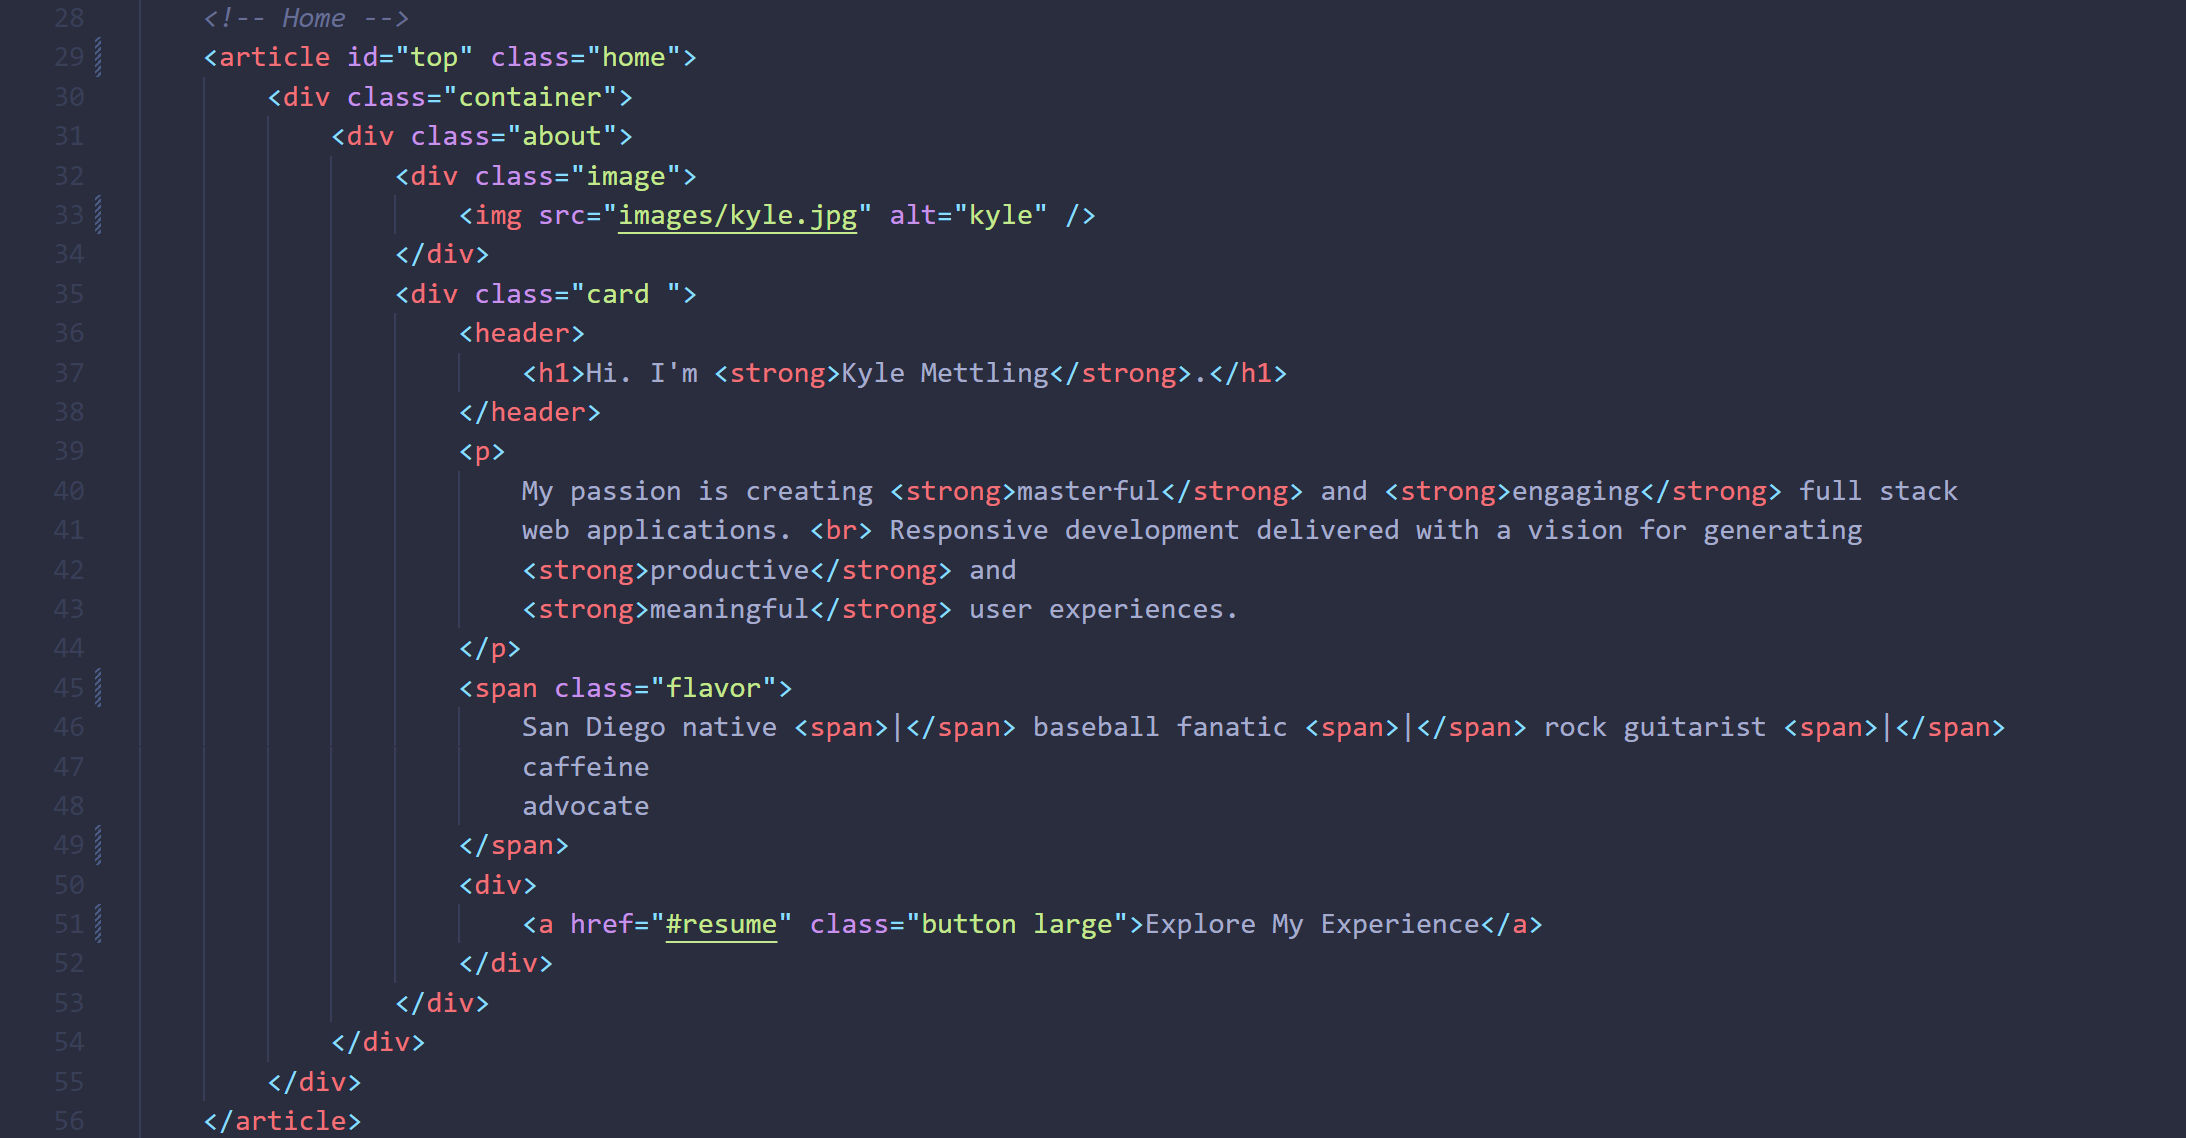
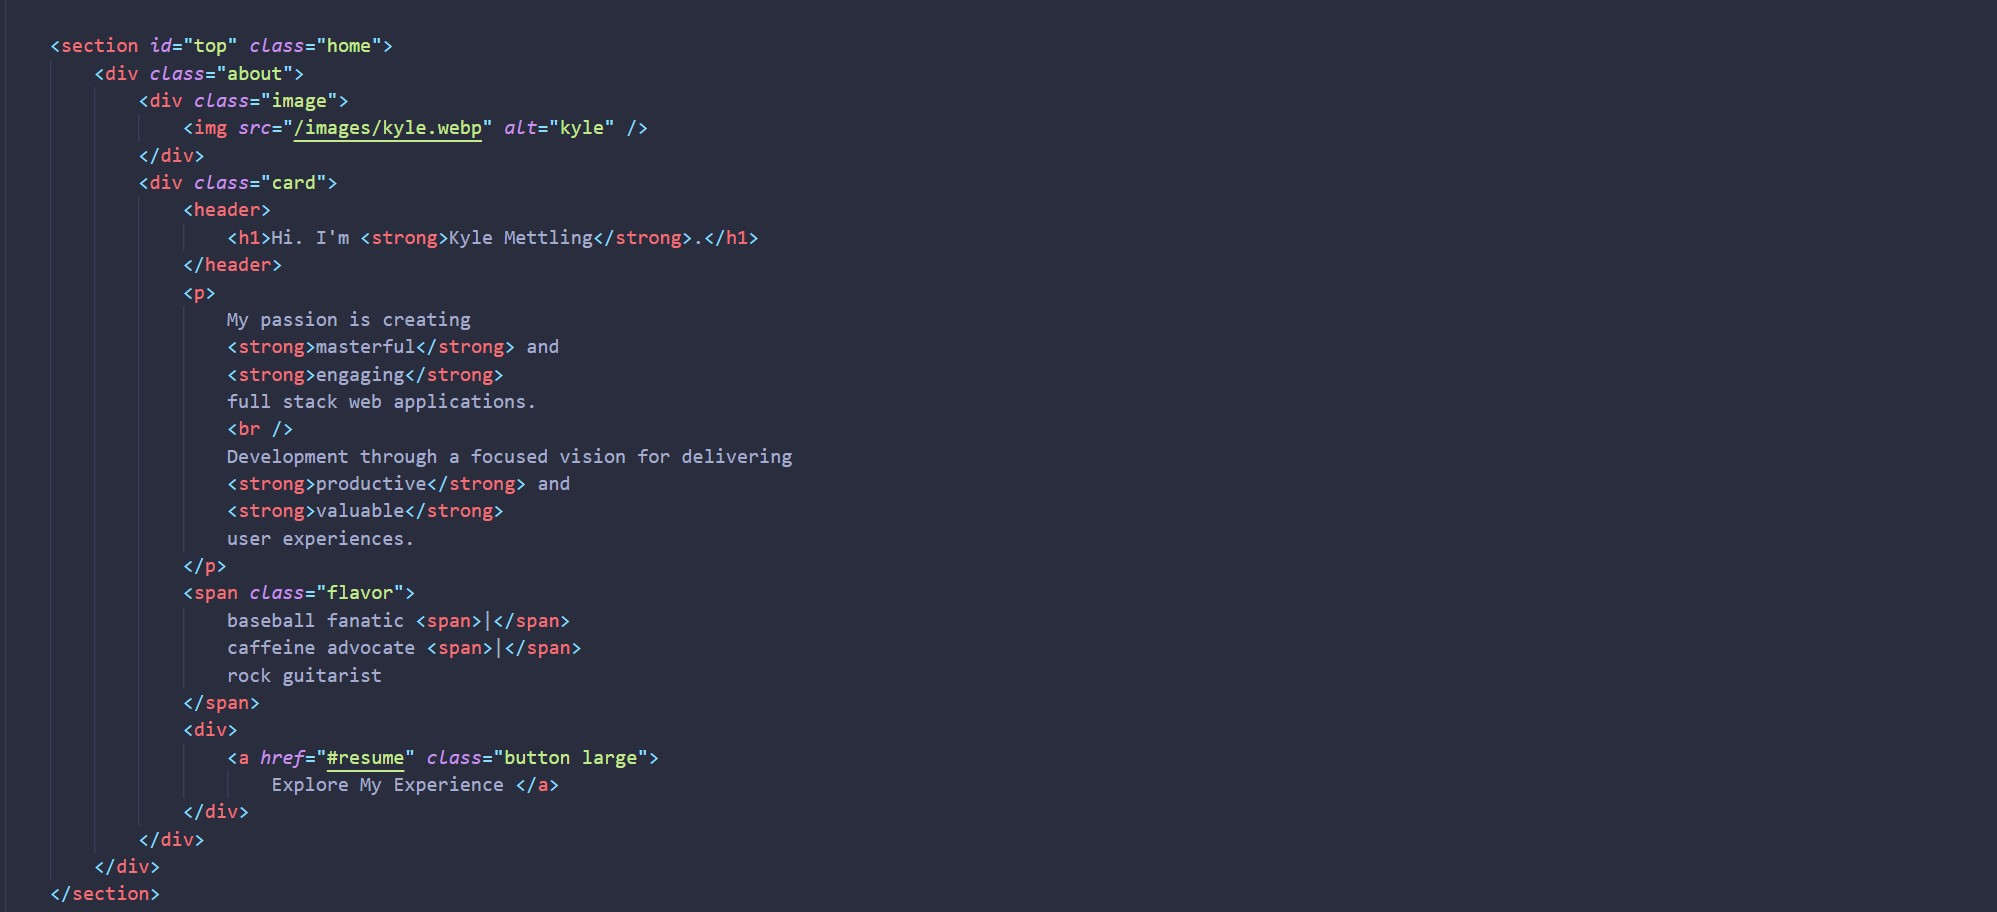
more responsive edits

diff --git a/assets/css/main.css b/assets/css/main.css
@@ -520,14 +520,10 @@ ul {
 	font-size: 20px;
 	padding: 5px;
 }
-#portfolio h2 {
-	margin-top: 100px;
-}
 #portfolio.wrapper {
 	margin: 0;
-	margin-top: 25px;
+	/* padding: 0; */
 	padding: 0;
-	padding-top: 125px;
 	/* padding-top: 20px; */
 	border-top: 5px solid var(--hoverAccentBorderColor);
 	border-bottom: 5px solid var(--hoverAccentBorderColor);
@@ -551,10 +547,10 @@ ul {
 	/* width: 100vw; */
 	/* margin: 0 auto; */
 	/* margin: 0 200px 0 200px; */
-	margin: 0 25px;
+	margin: 125px;
 	/* width: 1999px; */
-	padding: 0 444px;
-	padding-bottom: 125px;
+	padding: 125px 50px;
+	/* padding-bottom: 125px; */
 	/* margin-left: 400px; */
 	/* margin-right: 400px; */
 }
@@ -583,7 +579,7 @@ ul {
 	/* margin: 0 auto; */
 }
 .project:first-of-type img {
-	width: 1000px;
+	width: 888px;
 	/* display: flex; */
 	/* width: 1500px; */
 	/* height: 100%; */
@@ -598,6 +594,7 @@ ul {
 .project img {
 	/* display: flex; */
 }
+
 .project .box .details {
 	display: flex;
 	flex-direction: column;
@@ -613,11 +610,9 @@ ul {
 }
 .project:first-of-type .box .details p {
 	width: initial;
-	/* margin: 0 auto; */
-	/* justify-content: center; */
 	align-self: center;
-	/* justify-self: center; */
-	/* text-align: center; */
+}
+.project:first-of-type {
 }
 
 .project .box p {
@@ -645,7 +640,7 @@ article.box:hover {
 	justify-content: flex-start;
 	color: var(--white);
 	font-size: 1.25rem;
-	margin: 0 25px;
+	margin: 0 125px;
 	background-color: var(--purple2);
 	padding: 45px 25px;
 }
@@ -712,16 +707,16 @@ article.box:hover {
 } */
 .home {
 	background-color: var(--black);
-	background-image: url('/images/home2.webp');
+	background-image: url('/images/home.webp');
 	background-blend-mode: hard-light;
 	background-size: cover;
 	background-repeat: no-repeat;
-	background-position: 0% 55%;
 	border-bottom: 5px solid var(--hoverAccentBorderColor);
-	/* position: relative; */
-	/* width: 2560px; */
-	/* margin: 0 auto; */
-	/* height: 1050px; */
+	display: flex;
+	justify-content: center;
+	padding-top: 20px;
+	/* margin-left: 35.25%; */
+	height: 1280px;
 }
 .card {
 	display: flex;
@@ -778,23 +773,18 @@ article.box:hover {
 	/* gap: 50px; */
 	align-items: center;
 	justify-content: space-evenly;
+	margin-left: 35%;
 	/* width: 100%; */
 	/* height: 1200px; */
 	/* margin-bottom: -150px; */
 }
-.home .container {
+/* .home .container {
 	display: flex;
-	justify-content: center;
-	/* align-content: center; */
-	/* gap: 200px; */
-	/* height: 100%; */
+	justify-content: center; 
 	padding-top: 20px;
-	margin-left: 35.25%;
-	/* align-items: flex-end; */
-	/* width: 400px; */
-	/* margin: 0 auto; */
+	margin-left: 35.25%; 
 	height: 1050px;
-}
+} */
 
 .about .card {
 	/* display: flex; */
@@ -2604,14 +2594,11 @@ ul.actions li:first-child {
 .projects {
 	display: flex;
 	flex-wrap: wrap;
-
-	/* grid-template-columns:repeat(auto-fill, minmax(1240px, auto)); */
 	gap: 50px;
 	justify-content: center;
-	/* align-content: center; */
 }
-.project:last-of-type {
-	justify-self: center;
+.project:last-child {
+	/* margin-left: 50%; */
 }
 #resume .box {
 	background: var(--blue2);
@@ -3062,7 +3049,7 @@ body > article {
 	font-weight: 600;
 }
 #contact.wrapper {
-	margin: 0 25px;
+	margin: 0 125px;
 	padding: 50px 250px;
 }
 #contact .button {
@@ -3473,22 +3460,30 @@ textarea::placeholder {
 	}
 }
 @media screen and (max-width: 1920px) {
-	.home .container {
-		height: 950px;
-		margin-left: 50%;
+	.home {
+		height: 952px;
+		/* margin-left: 50%; */
+		/* background-position: 40%; */
 	}
+	.about {
+		margin-left: 42%;
+	}
+
 	#portfolio.wrapper {
 		/* padding: 10px; */
+		margin: 0 auto;
 	}
 	#portfolio .container {
 		/* width: 100%; */
-		padding: 0;
+		/* margin: 0 50px; */
+		padding: 0 50px;
 	}
-	.project {
-		/* width: 777px; */
+
+	.project:last-child {
+		/* margin-left: 25%; */
 	}
 	.project:first-of-type {
-		margin: 0 150px;
+		/* margin: 0 150px; */
 		/* width: 1500px; */
 	}
 	.project blockquote {

diff --git a/index.html b/index.html
@@ -26,32 +26,31 @@
 		</nav>
 
 		<section id="top" class="home">
-			<div class="container">
-				<div class="about">
-					<div class="image">
-						<img src="/images/kyle.webp" alt="kyle" />
-					</div>
-					<div class="card">
-						<header>
-							<h1>Hi. I'm <strong>Kyle Mettling</strong>.</h1>
-						</header>
-						<p>
-							My passion is creating
-							<strong>masterful</strong> and <strong>engaging</strong>
-							full stack web applications.
-							<br />
-							Development through a focused vision for delivering
-							<strong>productive</strong> and
-							<strong>valuable</strong>
-							user experiences.
-						</p>
-						<span class="flavor">
-							baseball fanatic <span>|</span> caffeine advocate <span>|</span>
-							rock guitarist
-						</span>
-						<div>
-							<a href="#resume" class="button large"> Explore My Experience </a>
-						</div>
+			<div class="about">
+				<div class="image">
+					<img src="/images/kyle.webp" alt="kyle" />
+				</div>
+				<div class="card">
+					<header>
+						<h1>Hi. I'm <strong>Kyle Mettling</strong>.</h1>
+					</header>
+					<p>
+						My passion is creating
+						<strong>masterful</strong> and
+						<strong>engaging</strong>
+						full stack web applications.
+						<br />
+						Development through a focused vision for delivering
+						<strong>productive</strong> and
+						<strong>valuable</strong>
+						user experiences.
+					</p>
+					<span class="flavor">
+						baseball fanatic <span>|</span> caffeine advocate <span>|</span>
+						rock guitarist
+					</span>
+					<div>
+						<a href="#resume" class="button large"> Explore My Experience </a>
 					</div>
 				</div>
 			</div>
@@ -348,7 +347,6 @@
 					</div>
 				</div>
 				<footer>
-					<!-- <p>Looking to connect and ?</p> -->
 					<a href="#contact" class="button large scrolly"
 						>Get in touch with me</a
 					>
@@ -508,7 +506,7 @@
 					</div>
 					<div class="col-12">
 						<hr />
-						<h3>Connect with Kyle on ...</h3>
+						<h3>Connect with Kyle!</h3>
 						<ul class="social">
 							<li>
 								<a href="https://twitter.com/KyleMettlingDev">
